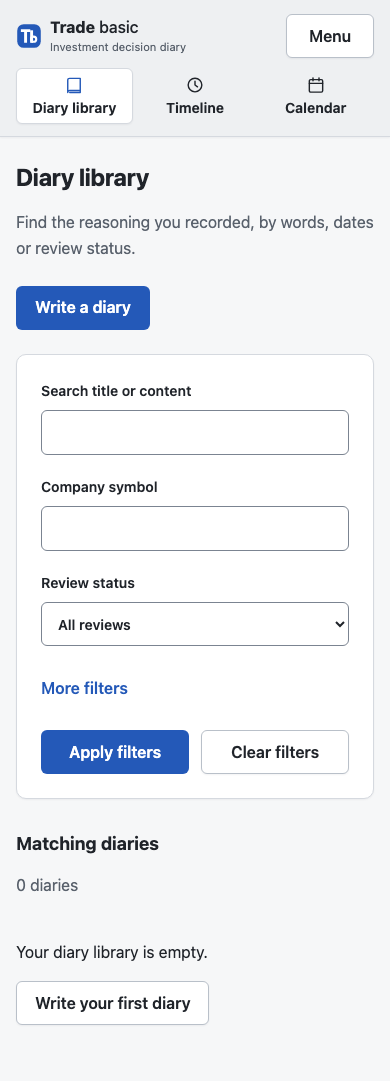
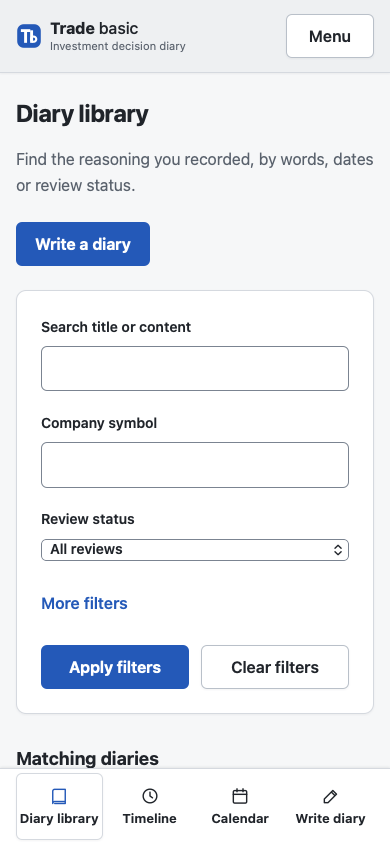
feat(web): move mobile diary shortcuts to a fixed bottom bar with Write diary

diff --git a/tests/e2e/workspace-navigation.spec.ts b/tests/e2e/workspace-navigation.spec.ts
@@ -1,5 +1,5 @@
 import { randomUUID } from 'node:crypto'
-import { expect, test, selectLocale } from '../support/e2e'
+import { expect, test, selectLocale, selectTheme } from '../support/e2e'
 
 const password = 'synthetic-workspace-navigation-password'
 
@@ -108,14 +108,19 @@ test('desktop workspace navigation keeps capture direct, keyboard capture indepe
   expect(await page.evaluate(() => document.documentElement.scrollWidth <= window.innerWidth)).toBe(true)
 })
 
-test('mobile menu exposes the same capture and workspace destinations with keyboard focus return', async ({ page }) => {
+test('mobile bottom navigation keeps diary views and writing reachable without covering content @webkit-critical', async ({ page }) => {
+  test.setTimeout(60_000)
   await page.setViewportSize({ width: 390, height: 844 })
   await signIn(page, `workspace-mobile-${randomUUID()}@example.test`)
 
   const diaryNavigation = page.getByTestId('mobile-diary-navigation')
   await expect(diaryNavigation).toBeVisible()
-  await expect(diaryNavigation.getByRole('link')).toHaveText(['Diary library', 'Timeline', 'Calendar'])
+  await expect(diaryNavigation.getByRole('link')).toHaveText(['Diary library', 'Timeline', 'Calendar', 'Write diary'])
   expect(await diaryNavigation.getByRole('link').evaluateAll(links => links.every(link => link.getBoundingClientRect().height >= 44))).toBe(true)
+
+  await expect(diaryNavigation.getByRole('link', { name: 'Write diary', exact: true })).toHaveAttribute('href', '/diaries/new')
+  expect(await diaryNavigation.evaluate(element => Math.abs(element.getBoundingClientRect().bottom - window.innerHeight))).toBeLessThanOrEqual(1)
+  await expect(page.locator('.sidebar .mobile-diary-navigation')).toHaveCount(0)
 
   const trigger = page.getByTestId('mobile-menu')
   await trigger.focus()
@@ -124,19 +129,11 @@ test('mobile menu exposes the same capture and workspace destinations with keybo
   await expect(dialog).toBeVisible()
   await expect(dialog.getByRole('link', { name: 'Timeline', exact: true })).toHaveCount(0)
   await expect(dialog.getByTestId('mobile-quick-entry')).toHaveAttribute('href', '/diaries/quick')
-  await dialog.locator('.quick-capture-disclosure summary').click()
-  await expect(dialog.getByRole('link', { name: 'Write a full diary', exact: true })).toHaveAttribute('href', '/diaries/new')
+  await expect(dialog.getByRole('link', { name: 'Write a full diary', exact: true })).toHaveCount(0)
   await expect(dialog.getByRole('link', { name: 'Overview', exact: true })).toHaveAttribute('href', '/')
   await expect(dialog.getByRole('link', { name: 'Settings', exact: true })).toHaveAttribute('href', '/settings')
   await expect(dialog.getByRole('link', { name: 'Public articles', exact: true })).toHaveAttribute('href', '/articles')
   expect(await dialog.locator('nav a').evaluateAll(links => links.every(link => link.getBoundingClientRect().height >= 44))).toBe(true)
-  await dialog.getByTestId('mobile-quick-entry').focus()
-  await expect(dialog.getByRole('link', { name: 'Write a full diary', exact: true })).toHaveCount(0)
-  await dialog.locator('.quick-capture-disclosure summary').click()
-
-  await page.keyboard.press('Escape')
-  await expect(dialog.locator('.quick-capture-disclosure > summary')).toBeFocused()
-  await expect(dialog.getByRole('link', { name: 'Write a full diary', exact: true })).toHaveCount(0)
   await page.keyboard.press('Escape')
   await expect(dialog).toBeHidden()
   await expect(trigger).toBeFocused()
@@ -149,15 +146,46 @@ test('mobile menu exposes the same capture and workspace destinations with keybo
   await expect(dialog).toBeHidden()
 
   await page.goto('/stocks')
-  for (const [name, href] of [['Diary library', /\/diaries$/], ['Timeline', /\/timeline$/], ['Calendar', /\/calendar$/]] as const) {
+  for (const [name, href] of [['Diary library', /\/diaries$/], ['Timeline', /\/timeline$/], ['Calendar', /\/calendar$/], ['Write diary', /\/diaries\/new$/]] as const) {
     await diaryNavigation.getByRole('link', { name, exact: true }).click()
     await expect(page).toHaveURL(href)
     await expect(diaryNavigation.getByRole('link', { name, exact: true })).toHaveAttribute('aria-current', 'page')
     await page.goto('/stocks')
   }
+  await diaryNavigation.getByRole('link', { name: 'Write diary', exact: true }).click()
+  await expect(page.getByRole('textbox', { name: 'Title', exact: true })).toBeVisible()
+  await expect(diaryNavigation.locator('[aria-current="page"]')).toHaveText('Write diary')
+  const save = page.getByRole('button', { name: 'Save diary', exact: true })
+  await save.scrollIntoViewIfNeeded()
+  expect((await save.boundingBox())!.y + (await save.boundingBox())!.height).toBeLessThanOrEqual((await diaryNavigation.boundingBox())!.y)
+  expect(await diaryNavigation.evaluate(element => Math.abs(element.getBoundingClientRect().bottom - window.innerHeight))).toBeLessThanOrEqual(1)
+  await page.goto('/diaries/quick')
+  await expect(diaryNavigation.locator('[aria-current="page"]')).toHaveText('Write diary')
+  const quickSave = page.getByRole('button', { name: 'Create diary', exact: true })
+  await expect(quickSave).toBeVisible()
+  await quickSave.scrollIntoViewIfNeeded()
+  expect((await quickSave.boundingBox())!.y + (await quickSave.boundingBox())!.height).toBeLessThanOrEqual((await diaryNavigation.boundingBox())!.y)
+  await page.goto('/calendar')
+  await expect(page.locator('[data-heatdate]')).toHaveCount(371)
+  await page.evaluate(() => window.scrollTo(0, document.documentElement.scrollHeight))
+  expect(await diaryNavigation.evaluate(element => Math.abs(element.getBoundingClientRect().bottom - window.innerHeight))).toBeLessThanOrEqual(1)
+  expect(await page.locator('.calendar-legend').evaluate(element => element.getBoundingClientRect().bottom)).toBeLessThanOrEqual((await diaryNavigation.boundingBox())!.y)
+  for (const [locale, labels] of [
+    ['zh-TW', ['日記庫', '時間軸', '日曆', '寫日記']],
+    ['zh-CN', ['日记库', '时间轴', '日历', '写日记']],
+    ['en', ['Diary library', 'Timeline', 'Calendar', 'Write diary']],
+  ] as const) {
+    await page.setViewportSize({ width: 320, height: 640 })
+    await selectLocale(page, locale)
+    await expect(diaryNavigation.getByRole('link')).toHaveText([...labels])
+    expect(await page.evaluate(() => document.documentElement.scrollWidth <= window.innerWidth)).toBe(true)
+  }
   await page.setViewportSize({ width: 390, height: 844 })
   await page.goto('/diaries')
-  await page.screenshot({ path: 'docs/design/evidence/navigation/mobile-diary-shortcuts-390.png', fullPage: true })
+  await page.screenshot({ path: 'docs/design/evidence/navigation/mobile-diary-shortcuts-390.png', fullPage: false })
+  await selectTheme(page, 'dark')
+  await page.screenshot({ path: 'docs/design/evidence/navigation/mobile-bottom-nav-dark-390.png', fullPage: false })
+  await selectTheme(page, 'light')
 
   await page.goto('/')
   await trigger.press('Enter')

diff --git a/apps/web/app/styles.css b/apps/web/app/styles.css
@@ -1205,7 +1205,7 @@ main:focus-visible {
   justify-content: center;
   gap: var(--space-1);
   min-width: 0;
-  min-height: 52px;
+  min-height: 60px;
   padding: 6px 4px;
   border: 1px solid transparent;
   border-radius: var(--radius-control);
@@ -1376,10 +1376,18 @@ main:focus-visible {
     display: block;
   }
 
+  :root {
+    --mobile-diary-navigation-space: calc(76px + env(safe-area-inset-bottom));
+  }
+
   /* The sidebar is a sticky top bar here; keep anchor jumps and focus
      scrolling from leaving targets hidden underneath it. */
   html {
     scroll-padding-top: calc(64px + env(safe-area-inset-top));
+  }
+
+  html:has(.app-shell) {
+    scroll-padding-bottom: var(--mobile-diary-navigation-space);
   }
 
   .sidebar {
@@ -1414,13 +1422,6 @@ main:focus-visible {
     justify-content: space-between;
     gap: var(--space-4);
     min-height: 48px;
-  }
-
-  .mobile-diary-navigation {
-    display: grid;
-    grid-template-columns: repeat(3, minmax(0, 1fr));
-    gap: var(--space-1);
-    margin-top: var(--space-2);
   }
 
   .mobile-shell-header .brand {
@@ -1477,7 +1478,27 @@ main:focus-visible {
   }
 
   .app-shell > main {
-    padding: var(--page-block) var(--page-gutter) var(--space-8);
+    padding: var(--page-block) var(--page-gutter) calc(var(--space-8) + var(--mobile-diary-navigation-space));
+  }
+
+  .mobile-diary-navigation {
+    position: fixed;
+    inset: auto 0 0;
+    z-index: 6;
+    display: grid;
+    grid-template-columns: repeat(4, minmax(0, 1fr));
+    gap: var(--space-1);
+    height: var(--mobile-diary-navigation-space);
+    padding: var(--space-1) max(var(--page-gutter), env(safe-area-inset-right)) max(var(--space-1), env(safe-area-inset-bottom)) max(var(--page-gutter), env(safe-area-inset-left));
+    border-top: 1px solid var(--border);
+    background: var(--surface);
+    box-shadow: 0 -1px 3px rgb(18 22 30 / 0.08);
+  }
+
+  .mobile-diary-navigation a {
+    min-height: 60px;
+    padding: 4px 2px;
+    font-size: 0.8125rem;
   }
 
   .welcome {

diff --git a/apps/web/app/diary-navigation.tsx b/apps/web/app/diary-navigation.tsx
@@ -3,9 +3,9 @@ import { Icon } from './icons'
 import { useUi } from './ui'
 
 const copy = {
-  'zh-TW': { nav: '日記快捷導覽', library: '日記庫', timeline: '時間軸', calendar: '日曆' },
-  'zh-CN': { nav: '日记快捷导航', library: '日记库', timeline: '时间轴', calendar: '日历' },
-  en: { nav: 'Diary shortcuts', library: 'Diary library', timeline: 'Timeline', calendar: 'Calendar' },
+  'zh-TW': { nav: '日記快捷導覽', library: '日記庫', timeline: '時間軸', calendar: '日曆', write: '寫日記' },
+  'zh-CN': { nav: '日记快捷导航', library: '日记库', timeline: '时间轴', calendar: '日历', write: '写日记' },
+  en: { nav: 'Diary shortcuts', library: 'Diary library', timeline: 'Timeline', calendar: 'Calendar', write: 'Write diary' },
 } as const
 
 function activeView(pathname: string) {
@@ -13,6 +13,7 @@ function activeView(pathname: string) {
   if (path === '/calendar') return 'calendar'
   if (path === '/timeline' || path === '/partners/compare') return 'timeline'
   if (path === '/reviews' || /^\/diaries\/[1-9]\d*\/review$/.test(path)) return null
+  if (path === '/diaries/new' || path === '/diaries/quick') return 'write'
   if (path === '/diaries' || path.startsWith('/diaries/')) return 'library'
   return null
 }
@@ -26,5 +27,6 @@ export function DiaryNavigation() {
     <Link to="/diaries" aria-current={active === 'library' ? 'page' : undefined}><Icon name="book" size={20} /><span>{c.library}</span></Link>
     <Link to="/timeline" aria-current={active === 'timeline' ? 'page' : undefined}><Icon name="timeline" size={20} /><span>{c.timeline}</span></Link>
     <Link to="/calendar" aria-current={active === 'calendar' ? 'page' : undefined}><Icon name="calendar" size={20} /><span>{c.calendar}</span></Link>
+    <Link to="/diaries/new" aria-current={active === 'write' ? 'page' : undefined}><Icon name="pen" size={20} /><span>{c.write}</span></Link>
   </nav>
 }

diff --git a/apps/web/app/quick-entry.tsx b/apps/web/app/quick-entry.tsx
@@ -31,10 +31,10 @@ export function CaptureChoices({ mobile = false, onNavigate }: { mobile?: boolea
  const navigate = () => { closeDisclosure(); onNavigate?.(); };
  return <>
   <Link className="button quick-capture-primary" data-testid={mobile ? 'mobile-quick-entry' : 'quick-entry'} to="/diaries/quick" onClick={navigate}>{t('quick')}</Link>
-  <details ref={disclosure} className="quick-capture-disclosure" onKeyDown={event => { if (event.key === 'Escape' && disclosure.current?.open) { event.preventDefault(); closeDisclosure(true); } }} onBlur={event => { if (!event.currentTarget.contains(event.relatedTarget as Node | null)) closeDisclosure(); }} onClick={event => { if (event.target instanceof Element && event.target.closest('a')) closeDisclosure(); }}>
-   <summary aria-label={c.more}><Icon name="chevronDown" size={17} /></summary>
-   <div className="quick-capture-options"><Link to="/diaries/new" onClick={navigate}><Icon name="pen" />{c.write}</Link></div>
-  </details>
+  {!mobile && <details ref={disclosure} className="quick-capture-disclosure" onKeyDown={event => { if (event.key === 'Escape' && disclosure.current?.open) { event.preventDefault(); closeDisclosure(true); } }} onBlur={event => { if (!event.currentTarget.contains(event.relatedTarget as Node | null)) closeDisclosure(); }} onClick={event => { if (event.target instanceof Element && event.target.closest('a')) closeDisclosure(); }}>
+    <summary aria-label={c.more}><Icon name="chevronDown" size={17} /></summary>
+    <div className="quick-capture-options"><Link to="/diaries/new" onClick={navigate}><Icon name="pen" />{c.write}</Link></div>
+  </details>}
  </>;
 }
 

diff --git a/apps/web/app/nav.tsx b/apps/web/app/nav.tsx
@@ -5,7 +5,6 @@ import { useUi } from './ui'
 import { BrandMark, Icon, type IconName } from './icons'
 import { TOOLS } from './tool-shell'
 import { CaptureChoices } from './quick-entry'
-import { DiaryNavigation } from './diary-navigation'
 
 type Role = 'USER' | 'ADMIN' | null
 
@@ -146,7 +145,6 @@ export function MobileMenu({ role, authenticated, preferences, onLogout, logoutP
       <Link className="brand" to="/"><BrandMark size={26} /><div><span className="brand-name mobile-brand-name"><strong>Trade</strong> basic</span><span className="brand-sub">{t('workspace')}</span></div></Link>
       <div className="mobile-shell-actions"><button type="button" className="secondary mobile-menu-trigger" ref={trigger} data-testid="mobile-menu" aria-haspopup="dialog" aria-expanded={open} onClick={show}>{menu}</button></div>
     </div>
-    <DiaryNavigation />
     <dialog ref={dialog} className="mobile-menu-dialog" data-testid="mobile-menu-dialog" aria-labelledby="mobile-menu-title" onClick={event => { if (event.target === event.currentTarget) close() }}>
       <div className="mobile-menu-panel">
         <header className="mobile-menu-header"><h2 id="mobile-menu-title" tabIndex={-1}>{menu}</h2><button type="button" className="secondary" onClick={close}>{t('close')}</button></header>

diff --git a/apps/web/app/root.tsx b/apps/web/app/root.tsx
@@ -8,6 +8,7 @@ import './styles.css';
 import './public.css';
 import { QuickEntry } from './quick-entry';
 import { MobileMenu, NavigationLinks, PublicMenu, PublicNavLinks } from './nav';
+import { DiaryNavigation } from './diary-navigation';
 import { PwaStatus } from './pwa';
 
 export function Layout({ children }: { children: React.ReactNode }) {
@@ -108,6 +109,7 @@ function Shell() {
         <MobileMenu role={role} authenticated={session.authenticated} preferences={mobilePreferences} onLogout={() => void logout()} logoutPending={logoutPending} logoutError={logoutError}/>
       </aside>
       <main id="main" className={wideDiaryBrowsePath ? 'wide-diary-main' : undefined} tabIndex={-1}><ForegroundReminders/><PwaStatus/><Outlet context={{ authenticated: session.authenticated, viewer }} key={session.revision} /></main>
+      <DiaryNavigation />
     </div>
   </>;
 }

diff --git a/apps/web/app/quick.css b/apps/web/app/quick.css
@@ -267,7 +267,7 @@
      extends below the viewport. */
   .editor .quick-composer button[type="submit"] {
     position: sticky;
-    bottom: 0;
+    bottom: var(--mobile-diary-navigation-space, 76px);
     z-index: 2;
     width: 100%;
     margin-bottom: 0;

diff --git a/DESIGN.md b/DESIGN.md
@@ -199,7 +199,7 @@ Fields have a visible label, a control border, and a surface background, with a 
 
 The workspace navigation starts with Overview, then groups primary destinations under Diary & review (Diary library, Timeline, Calendar, Review queue), Investing & trading (Holdings, Watchlist, Trade plans), and Markets & tools (Market research, Tools). Diary library, Timeline, and Calendar are direct, equal-priority links in the desktop sidebar and each has a clear icon and text label. Plain sign-in opens the user's selected start page, defaulting to Timeline; an explicit safe return destination takes priority. Capture remains a separate primary action with an adjacent full-diary disclosure. Diary reminders and Partners live in Diary management; Price reminders and Trading principles live in Trade management. Account contains Public articles and Settings. Administration orders Article management, User management, then ETF catalog. Ordinary links and native disclosures retain the browser keyboard model, without application-menu roles.
 
-On mobile, the brand/Menu header is followed by a persistent three-column shortcut row for Diary library, Timeline, and Calendar. The same destinations are omitted from the drawer to avoid duplicates. Each direct route stays a separate page. Diary library is current throughout `/diaries` and its reading/editing routes; Timeline is current at `/timeline` and Partner comparison; Calendar is current at `/calendar`; Review queue is current for Diary Review. Each current route uses `aria-current=page` and the selected surface treatment. The skip link appears on focus; a pathname change moves focus to main, and main has a 4px inset keyboard outline. The preview's three toggle buttons use `aria-pressed`; they are not full business navigation.
+Below 768px, the brand/Menu header stays at the top and a fixed four-column bottom bar holds Diary library, Timeline, Calendar, and Write diary. Write diary opens `/diaries/new`; both new and quick capture routes select the writing destination. Library remains current for diary listing, reading, and editing. The drawer retains Quick Diary and the remaining workspace links; full-diary writing moves into the bottom bar. The bar uses existing icon/label styling, safe-area padding, and reserved main-content clearance; full-page quick-save controls sit above it while modal dialogs retain their own footer. Each direct route stays a separate page. Timeline is current at `/timeline` and Partner comparison; Calendar is current at `/calendar`; Review queue is current for Diary Review. Each current route uses `aria-current=page` and the selected surface treatment. The skip link appears on focus; a pathname change moves focus to main, and main has a 4px inset keyboard outline. The preview's three toggle buttons use `aria-pressed`; they are not full business navigation.
 
 Diary library, Timeline, and Calendar use the available workspace main-column width so the large desktop viewport does not leave a broad unused rail. Keep Diary excerpts and other reading text bounded to 72–75ch; reading pages and editors retain their existing widths. The three core browse links remain one click away from every workspace page.
 
@@ -215,7 +215,7 @@ The article editor makes its stored state explicit beside the title and exposes 
 
 ### Quick Diary
 
-The native dialog is `min(680px, calc(100% - 32px))` wide on desktop, at most `calc(100dvh - 48px)` tall, with 24px padding; on mobile it is full viewport height with 16px padding. The footer sticks to the bottom edge of the dialog and gains safe-area on mobile. On the full `/diaries/quick` page the submit button is sticky at the viewport bottom on phones — it keeps its own layout slot with a surface background and an upward shadow, so it never covers content that cannot be scrolled past. Opening moves focus to the text area; Escape closes and returns focus to the trigger. It reuses the real create-diary form; date and save-mode stay side by side on phones.
+The native dialog is `min(680px, calc(100% - 32px))` wide on desktop, at most `calc(100dvh - 48px)` tall, with 24px padding; on mobile it is full viewport height with 16px padding. The footer sticks to the bottom edge of the dialog and gains safe-area on mobile. On the full `/diaries/quick` page the submit button is sticky above the bottom navigation on phones — it keeps its own layout slot with a surface background and an upward shadow, so it never covers content that cannot be scrolled past. Opening moves focus to the text area; Escape closes and returns focus to the trigger. It reuses the real create-diary form; date and save-mode stay side by side on phones.
 
 ### First representatives and preferences
 
@@ -235,7 +235,7 @@ The `/tools` index and confirmed `/tools/*` routes use the public shell for gues
 
 Account security uses form and device action sections separated by two thin rules, keeping reading width on desktop and full-width controls on mobile; errors keep field values, and a successful revocation offers a way to sign in again. FIRE uses assumptions/results in two columns, dropping to one below 850px; numbers are presented in tables, the projection stays in its own focusable horizontal-scroll region, and if copy fails the text is directly selectable. Both reuse existing tokens; no new color roles were added.
 
-Mobile navigation has its own row and can wrap, so new entries do not crowd the brand and text. See `docs/design/security-fire-finish-review.md` for the actual acceptance and screenshots; follow-up acceptance for full settings and diary Markdown editing is recorded separately in tickets 07 and 08.
+Mobile diary navigation has its own bottom bar, leaving the brand and Menu in the compact top header. See `docs/design/security-fire-finish-review.md` for the actual acceptance and screenshots; follow-up acceptance for full settings and diary Markdown editing is recorded separately in tickets 07 and 08.
 
 ### Do:
 

diff --git a/docs/design/navigation-organization-acceptance.md b/docs/design/navigation-organization-acceptance.md
@@ -51,3 +51,13 @@ Ownership uses a specific-path-first matcher, normalizes trailing slashes, and r
 - `docs/design/evidence/navigation/mobile-drawer-390.png`
 
 Focused verification passed: navigation/capture unit tests (38), TypeScript, ESLint, and three Playwright navigation scenarios. Combined phase verification passed 72 unit files / 648 tests, the production build, contracts drift check, 20 scoped browser scenarios, and all 9 production-artifact RC1 browser scenarios. Full article and combined results are recorded in `docs/design/article-publishing-acceptance.md`.
+
+## Mobile bottom navigation — 2026-09-20
+
+The user's follow-up moves the three mobile diary shortcuts to the viewport bottom and adds Write diary. Below 768px the bar contains Library, Timeline, Calendar and Write diary; the top header contains only the brand and Menu. Write diary opens the full editor. New and quick capture routes select Write diary; reading/editing stays with Library. The mobile drawer retains Quick Diary and other workspace destinations, while the desktop capture disclosure remains unchanged.
+
+The bar, page clearance and full-page Quick Diary sticky submit share a safe-area-aware height. Native dialogs retain their own footer and focus handling. Existing semantic colors, icons and system typography are reused.
+
+Acceptance uses synthetic accounts and a disposable local PostgreSQL database. The navigation scenario verifies fixed positioning before and after scrolling, all four destinations, full/quick save clearance, reachable end-of-page content, three locales at 320px, 390px light/dark themes, drawer focus return and desktop/admin behavior. The full workspace-navigation and quick-diary suites pass seven Chromium scenarios. Typecheck, scoped ESLint, the production build, 38 existing navigation unit cases and independent code review pass. Desktop and mobile screenshots were reviewed together; only relevant mobile evidence is retained.
+
+The same mobile navigation scenario also passes WebKit with `npx playwright test tests/e2e/workspace-navigation.spec.ts --config=playwright.webkit-critical.config.ts --grep 'mobile bottom navigation' --reporter=list`. This is browser automation evidence, not a physical-device test.
